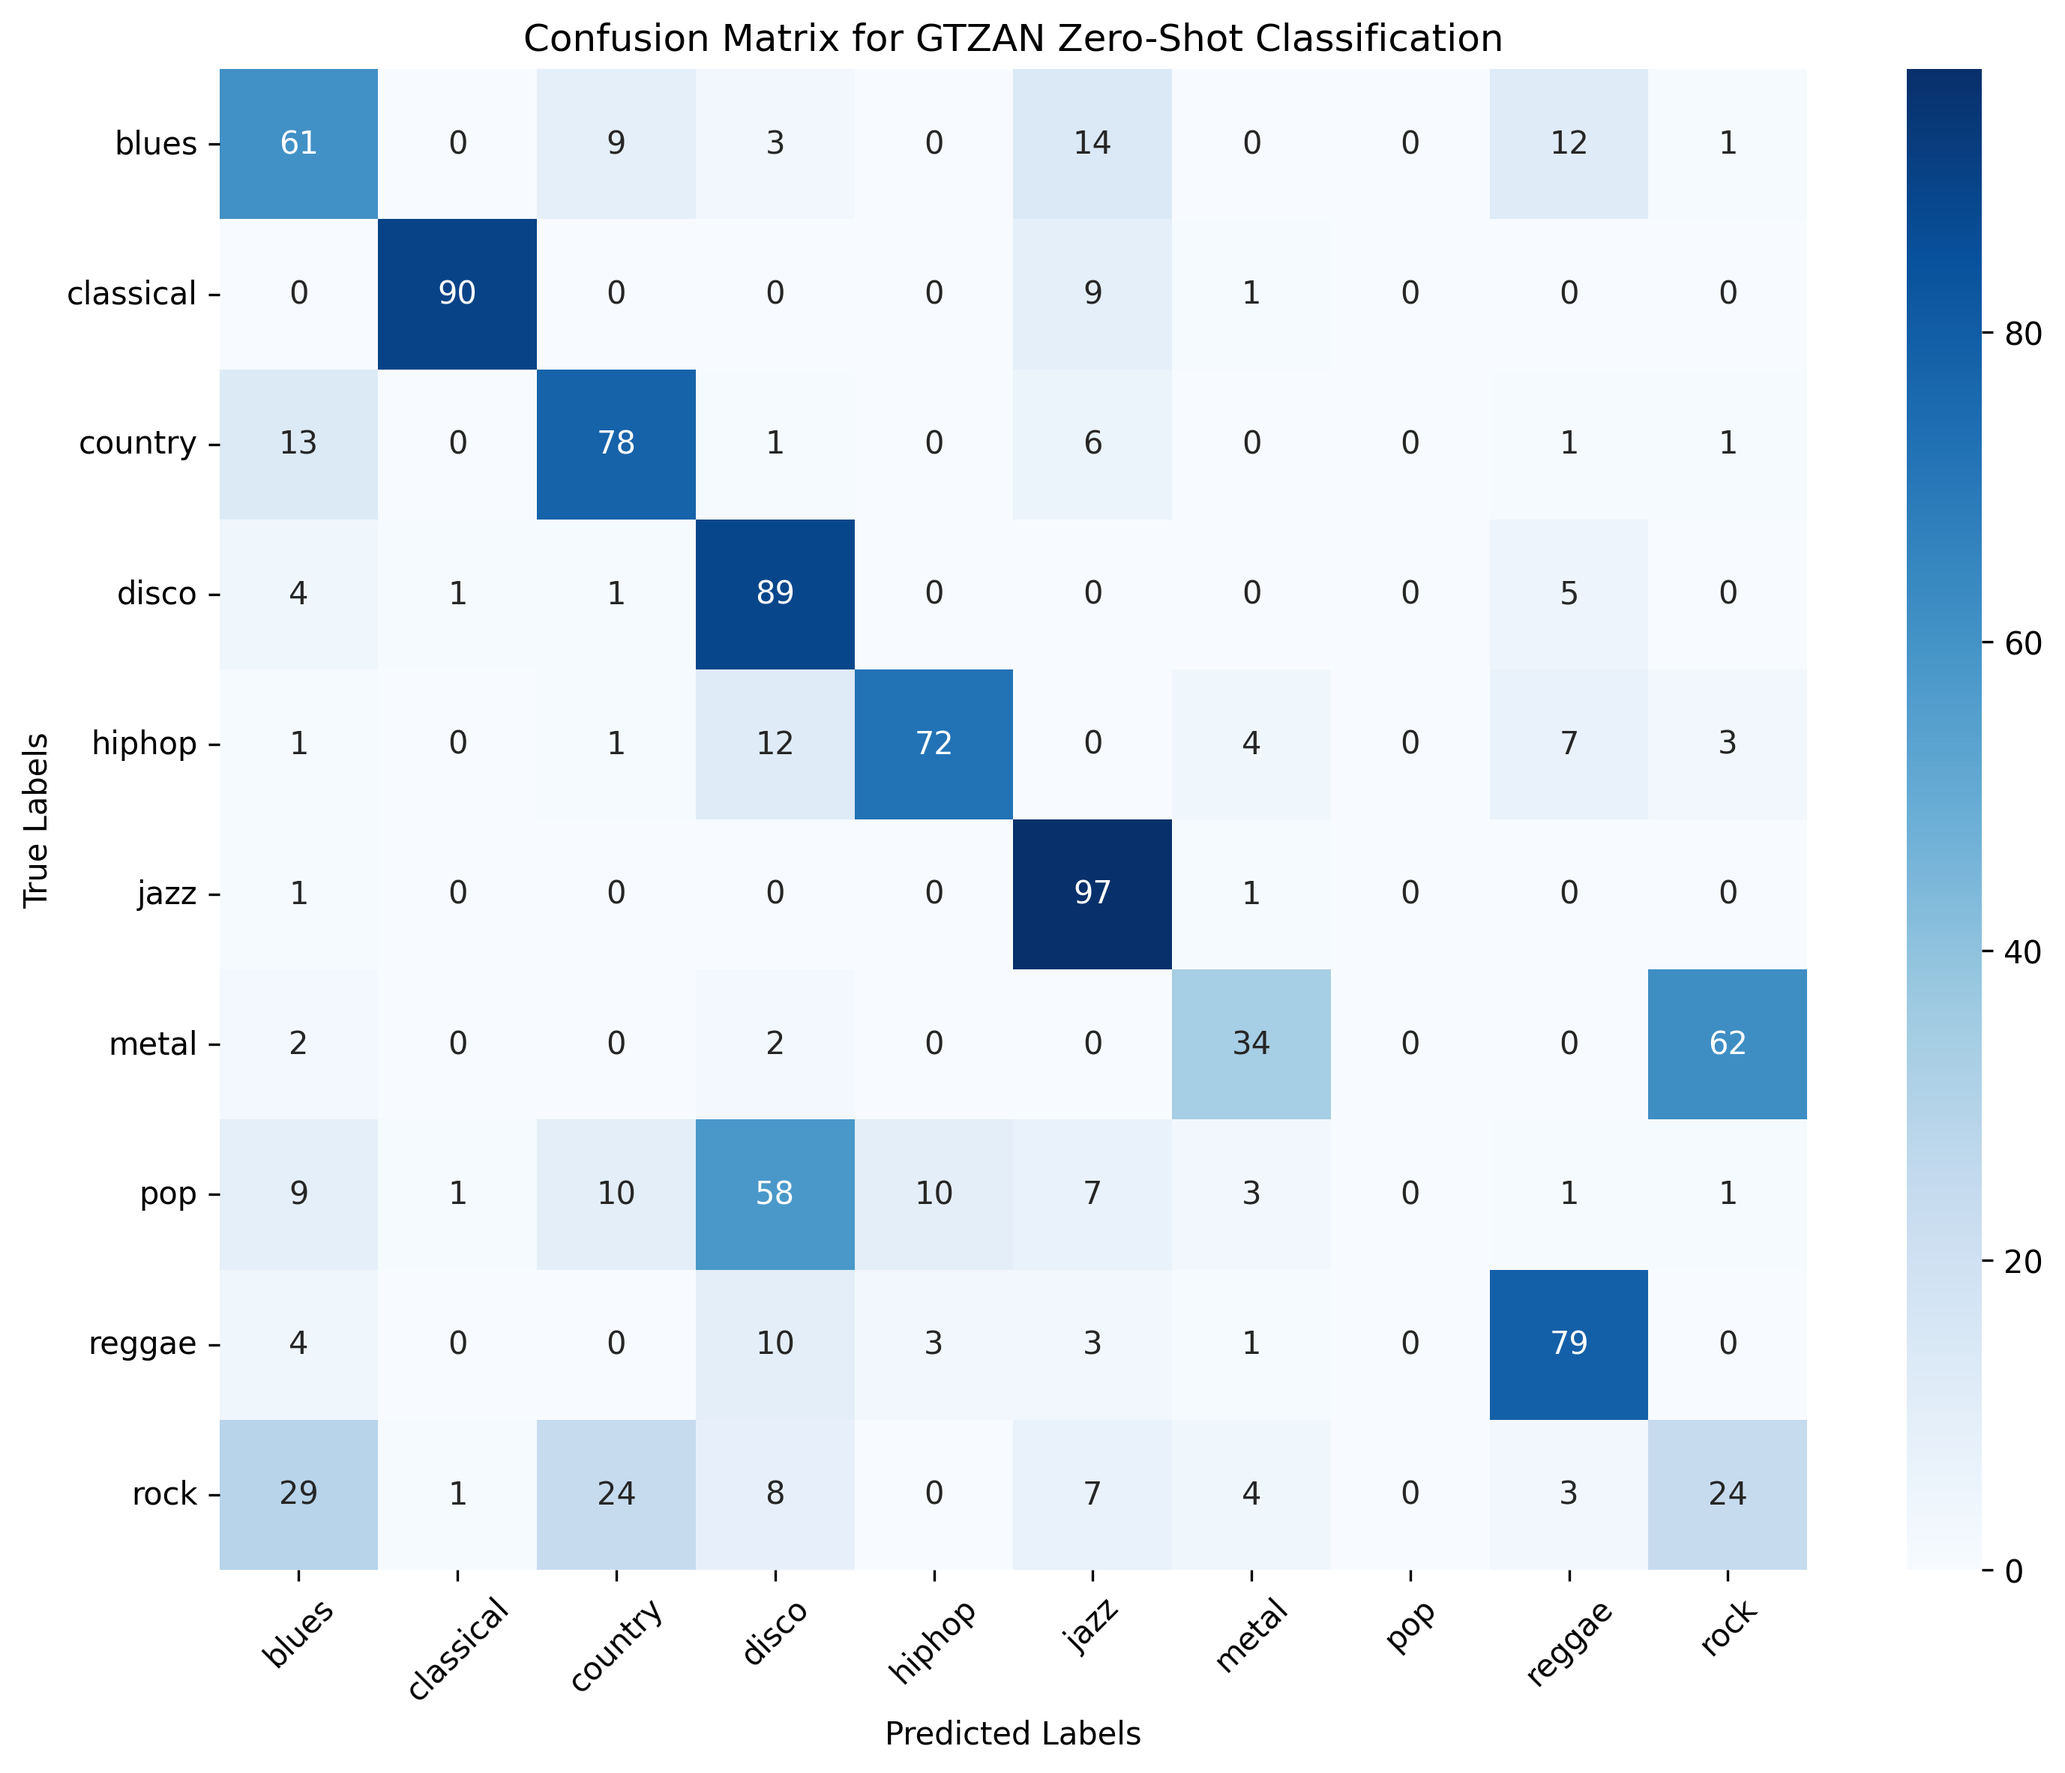
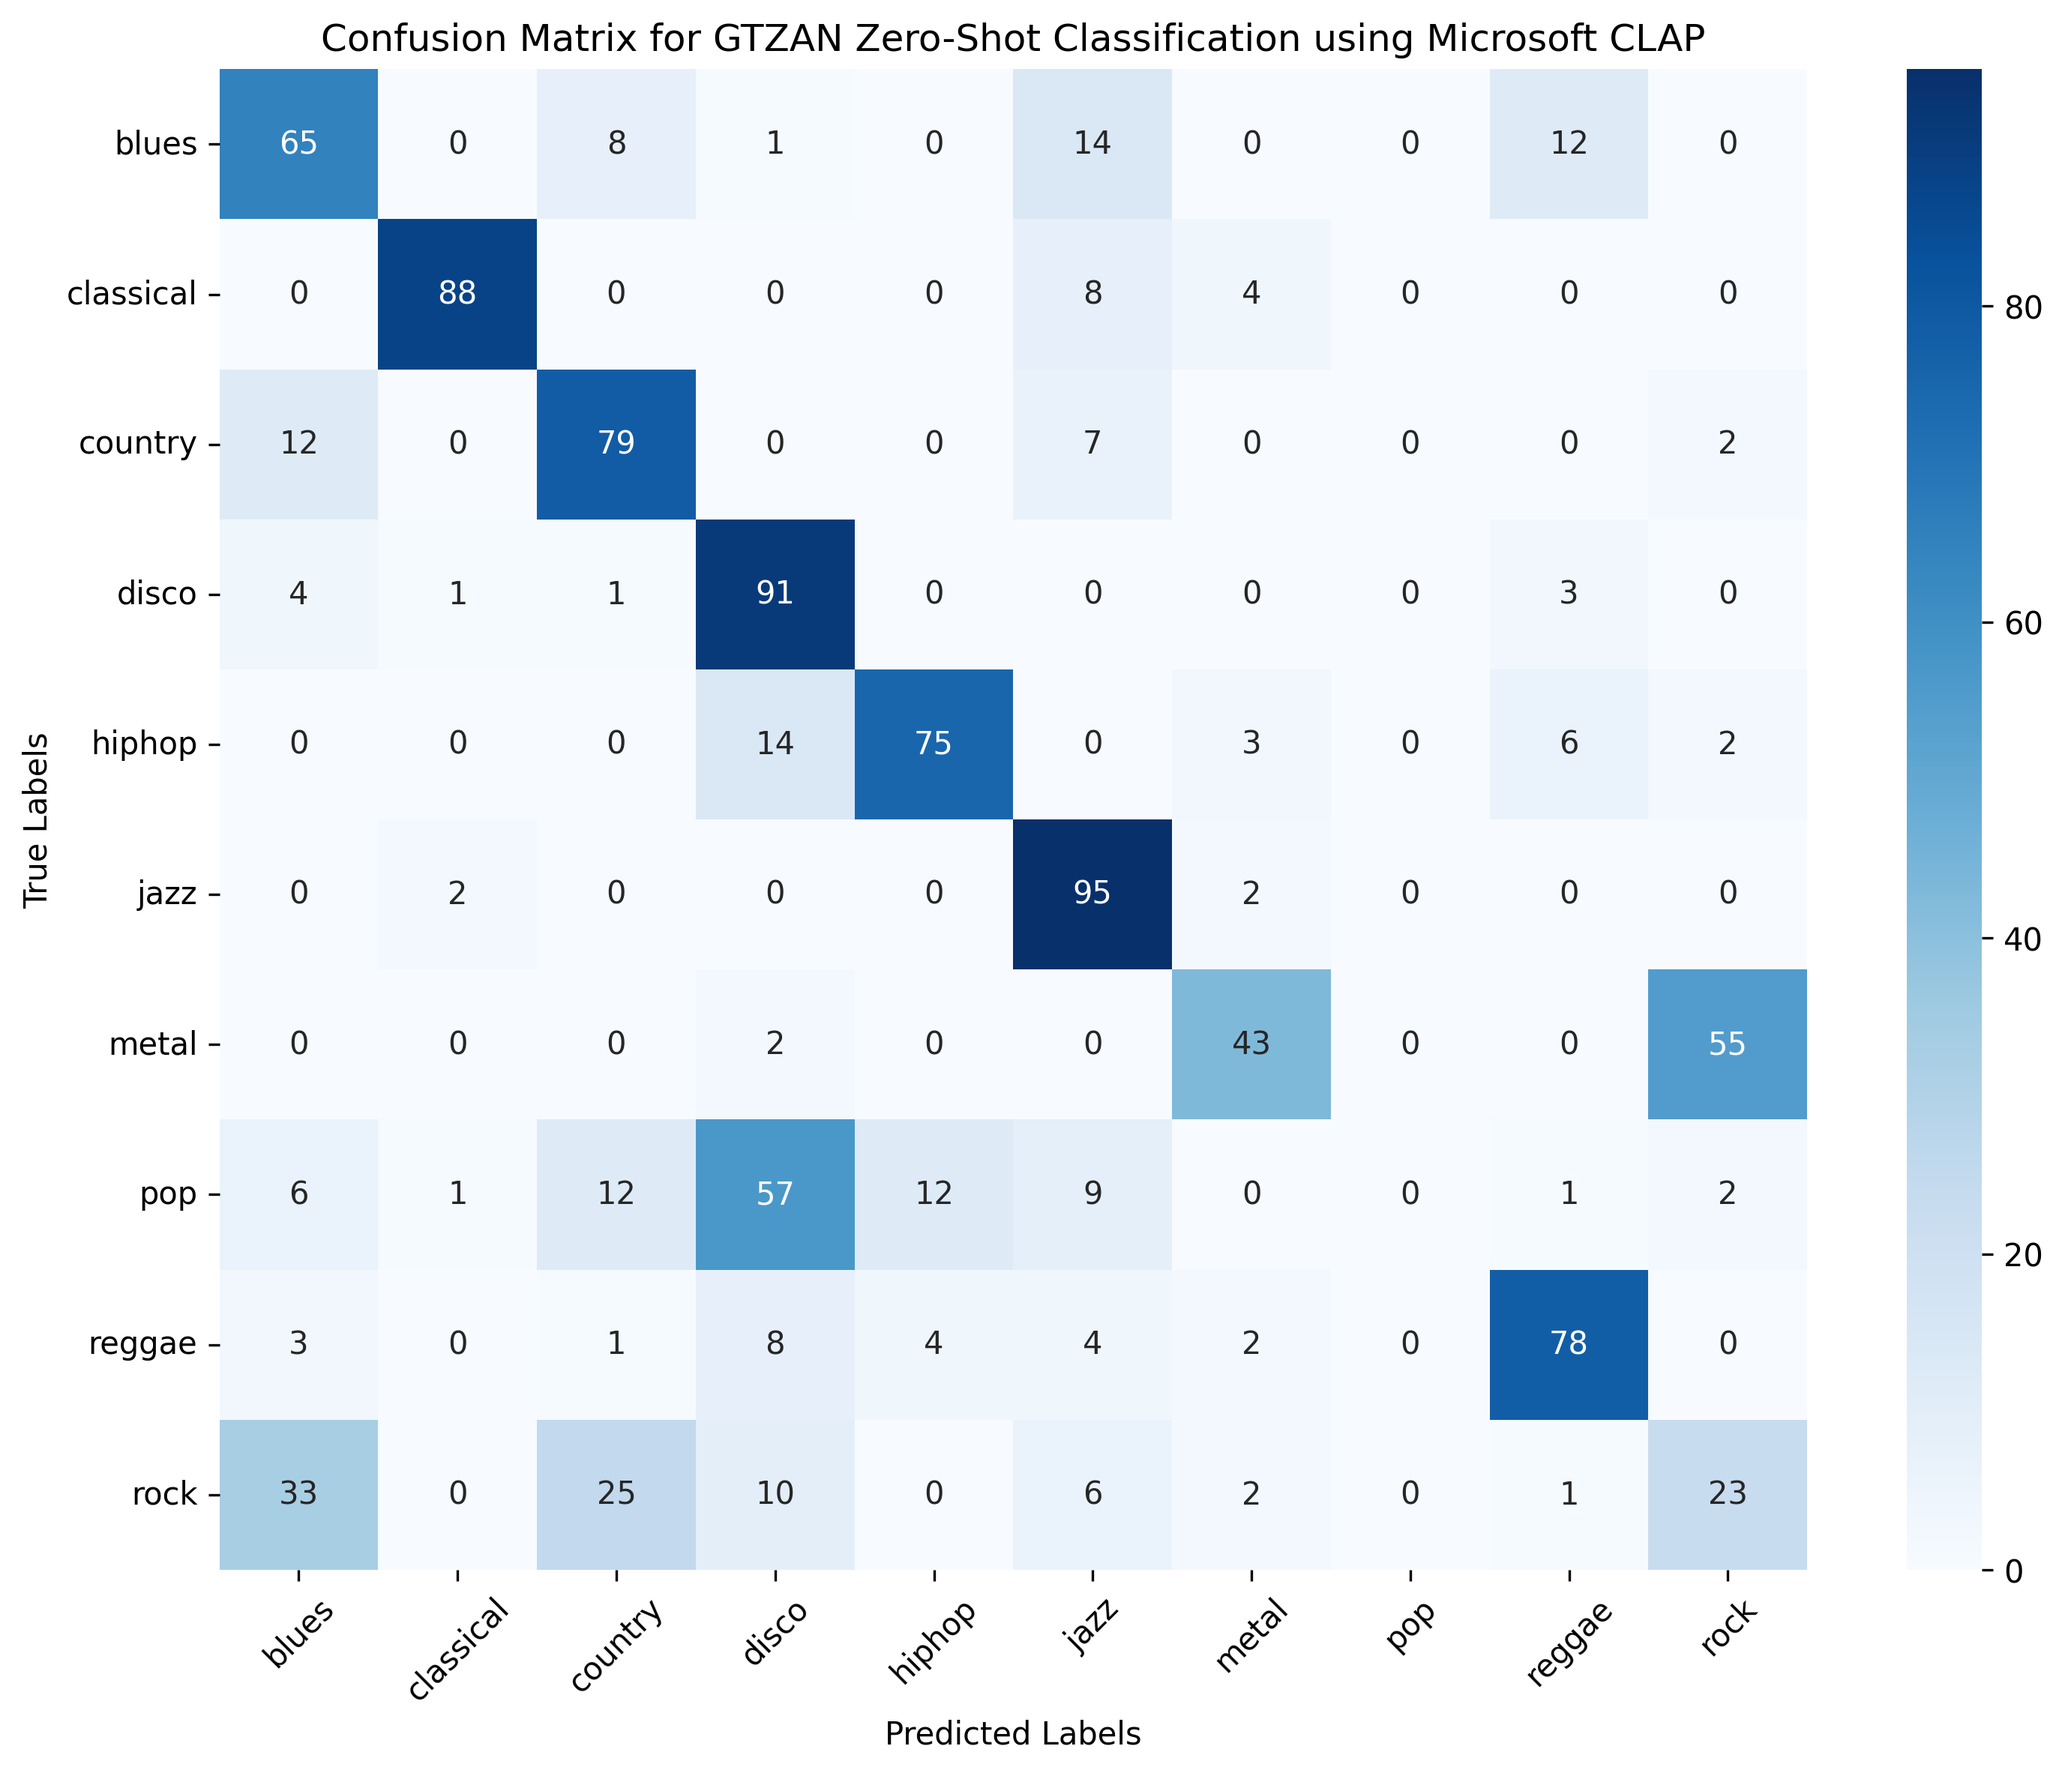
docs: change plot tittles

diff --git a/scripts/baseline/gtzan_laion_zero_shot.py b/scripts/baseline/gtzan_laion_zero_shot.py
@@ -152,7 +152,7 @@ def plot_confusion_matrix(true_labels, pred_labels, classes, save_path):
     cm = confusion_matrix(true_labels, pred_labels)
     plt.figure(figsize=(10, 8))
     sns.heatmap(cm, annot=True, fmt='d', cmap='Blues', xticklabels=classes, yticklabels=classes)
-    plt.title('Confusion Matrix for GTZAN Zero-Shot Classification using LAION-CLAP')
+    plt.title('Confusion Matrix for GTZAN Zero-Shot Classification using LAION-AI CLAP')
     plt.xlabel('Predicted Labels')
     plt.ylabel('True Labels')
     plt.xticks(rotation=45)

diff --git a/scripts/baseline/gtzan_ms_zero_shot.py b/scripts/baseline/gtzan_ms_zero_shot.py
@@ -115,7 +115,7 @@ def plot_confusion_matrix(true_labels, pred_labels, classes, save_path):
     cm = confusion_matrix(true_labels, pred_labels)
     plt.figure(figsize=(10, 8))
     sns.heatmap(cm, annot=True, fmt='d', cmap='Blues', xticklabels=classes, yticklabels=classes)
-    plt.title('Confusion Matrix for GTZAN Zero-Shot Classification')
+    plt.title('Confusion Matrix for GTZAN Zero-Shot Classification using Microsoft CLAP')
     plt.xlabel('Predicted Labels')
     plt.ylabel('True Labels')
     plt.xticks(rotation=45)
